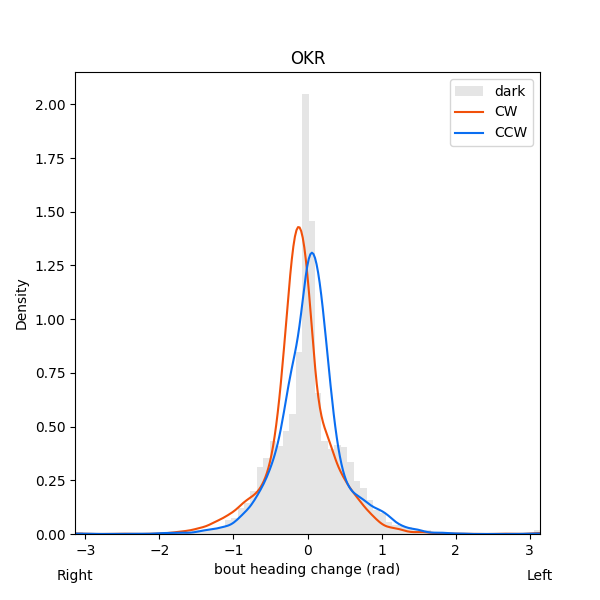
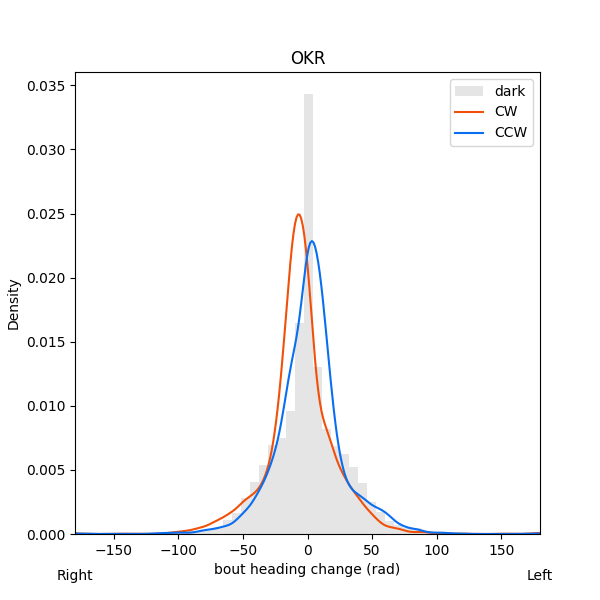
update

diff --git a/BehaviorScreen/__main__.py b/BehaviorScreen/__main__.py
@@ -196,7 +196,7 @@ if __name__ == '__main__':
     plt.figure(figsize=(6,6))
     plt.title('Photokinesis')
     plot_mean_and_sem(timeseries[(timeseries['stim']==Stim.DARK)].groupby('time')['distance'], COLORS[0], label='Dark')
-    plot_mean_and_sem(timeseries[(timeseries['stim']==Stim.BRIGHT) & (timeseries['stim_variable_value']=='[0.2,0.2,0.0,1]')].groupby('time')['distance'], COLORS[1], label='Bright')
+    plot_mean_and_sem(timeseries[(timeseries['stim']==Stim.BRIGHT) & (timeseries['stim_variable_value']=='[0.2, 0.2, 0.0, 1.0]')].groupby('time')['distance'], COLORS[1], label='Bright')
     plt.ylabel('<cumulative distance (mm)>')
     plt.xlabel('time [s]')
     plt.legend()
@@ -265,7 +265,7 @@ if __name__ == '__main__':
 
     plt.figure(figsize=(6,6))
     plt.title('Loomings')
-    plot_mean_and_sem(timeseries[(timeseries['stim']==Stim.BRIGHT) & (timeseries['stim_variable_value']=='[0.2,0.2,0.0,1]')].groupby('time')['speed'], col=COLORS[0], label='Bright')
+    plot_mean_and_sem(timeseries[(timeseries['stim']==Stim.BRIGHT) & (timeseries['stim_variable_value']=='[0.2, 0.2, 0.0, 1.0]')].groupby('time')['speed'], col=COLORS[0], label='Bright')
     plot_mean_and_sem(timeseries[(timeseries['stim']==Stim.LOOMING)].groupby('time')['speed'], col=COLORS[1], label='Looming')
     plt.ylabel('<speed [mm/s]>')
     plt.xlabel('time [s]')
@@ -277,9 +277,9 @@ if __name__ == '__main__':
     fig = plt.figure(figsize=(6,6))
     plt.title('prey capture')
     num_bouts = bouts[bouts['stim']==Stim.PREY_CAPTURE].shape[0]//2
-    bouts[(bouts['stim']==Stim.DARK)]['heading_change'].sample(num_bouts).plot.hist(color='k', bins=180, alpha=0.1, density=True, label='dark')
-    bouts[(bouts['stim']==Stim.PREY_CAPTURE) & (bouts['stim_variable_value']==20)]['heading_change'].plot.kde(color=COLORS[0], label='| o')
-    bouts[(bouts['stim']==Stim.PREY_CAPTURE) & (bouts['stim_variable_value']==-20)]['heading_change'].plot.kde(color=COLORS[1], label='o |')
+    bouts[(bouts['stim']==Stim.DARK)]['heading_change'].apply(np.rad2deg).sample(num_bouts).plot.hist(color='k', bins=180, alpha=0.1, density=True, label='dark')
+    bouts[(bouts['stim']==Stim.PREY_CAPTURE) & (bouts['stim_variable_value']==20)]['heading_change'].apply(np.rad2deg).plot.kde(color=COLORS[0], label='| o')
+    bouts[(bouts['stim']==Stim.PREY_CAPTURE) & (bouts['stim_variable_value']==-20)]['heading_change'].apply(np.rad2deg).plot.kde(color=COLORS[1], label='o |')
     plt.xlim(-180, 180)
     plt.legend()
     plt.text(
@@ -313,9 +313,9 @@ if __name__ == '__main__':
     fig = plt.figure(figsize=(6,6))
     plt.title('phototaxis')
     num_bouts = bouts[bouts['stim']==Stim.PHOTOTAXIS].shape[0]//2
-    bouts[(bouts['stim']==Stim.DARK)]['heading_change'].sample(num_bouts).plot.hist(color='k', bins=180, alpha=0.1, density=True,label='dark')
-    bouts[(bouts['stim']==Stim.PHOTOTAXIS) & (bouts['stim_variable_value']==1)]['heading_change'].plot.kde(color=COLORS[0], label='Bright | Dark')
-    bouts[(bouts['stim']==Stim.PHOTOTAXIS) & (bouts['stim_variable_value']==-1)]['heading_change'].plot.kde(color=COLORS[1], label='Dark | Bright')
+    bouts[(bouts['stim']==Stim.DARK)]['heading_change'].sample(num_bouts).apply(np.rad2deg).plot.hist(color='k', bins=180, alpha=0.1, density=True,label='dark')
+    bouts[(bouts['stim']==Stim.PHOTOTAXIS) & (bouts['stim_variable_value']==1)]['heading_change'].apply(np.rad2deg).plot.kde(color=COLORS[0], label='Bright | Dark')
+    bouts[(bouts['stim']==Stim.PHOTOTAXIS) & (bouts['stim_variable_value']==-1)]['heading_change'].apply(np.rad2deg).plot.kde(color=COLORS[1], label='Dark | Bright')
     plt.xlim(-180, 180)
     plt.legend()
     plt.text(
@@ -343,9 +343,9 @@ if __name__ == '__main__':
     plt.title(f'phototaxis, first {n} bouts')
     first_bouts = bouts[bouts['stim']==Stim.PHOTOTAXIS].groupby(['file', 'identity', 'stim_variable_value', 'trial_num'], group_keys=False).head(n)
     num_bouts = first_bouts.shape[0]//2
-    bouts[(bouts['stim']==Stim.DARK)]['heading_change'].sample(num_bouts).plot.hist(color='k', bins=80, alpha=0.1, density=True, label='dark')
-    first_bouts[first_bouts['stim_variable_value']==1]['heading_change'].plot.kde(color=COLORS[0], label='Bright | Dark')
-    first_bouts[first_bouts['stim_variable_value']==-1]['heading_change'].plot.kde(color=COLORS[1], label='Dark | Bright')
+    bouts[(bouts['stim']==Stim.DARK)]['heading_change'].sample(num_bouts).apply(np.rad2deg).plot.hist(color='k', bins=80, alpha=0.1, density=True, label='dark')
+    first_bouts[first_bouts['stim_variable_value']==1]['heading_change'].apply(np.rad2deg).plot.kde(color=COLORS[0], label='Bright | Dark')
+    first_bouts[first_bouts['stim_variable_value']==-1]['heading_change'].apply(np.rad2deg).plot.kde(color=COLORS[1], label='Dark | Bright')
     plt.xlim(-180, 180)
     plt.legend()
     plt.text(
@@ -376,9 +376,9 @@ if __name__ == '__main__':
     fig = plt.figure(figsize=(6,6))
     plt.title('OMR directional')
     num_bouts = bouts[bouts['stim']==Stim.OMR].shape[0]//2
-    bouts[(bouts['stim']==Stim.DARK)]['heading_change'].sample(num_bouts).plot.hist(color='k', bins=180, alpha=0.1, density=True, label='dark')
-    bouts[(bouts['stim']==Stim.OMR) & (bouts['stim_variable_value']==90)]['heading_change'].plot.kde(color=COLORS[0], label='-->')
-    bouts[(bouts['stim']==Stim.OMR) & (bouts['stim_variable_value']==-90)]['heading_change'].plot.kde(color=COLORS[1], label='<--')
+    bouts[(bouts['stim']==Stim.DARK)]['heading_change'].sample(num_bouts).apply(np.rad2deg).plot.hist(color='k', bins=180, alpha=0.1, density=True, label='dark')
+    bouts[(bouts['stim']==Stim.OMR) & (bouts['stim_variable_value']==90)]['heading_change'].apply(np.rad2deg).plot.kde(color=COLORS[0], label='-->')
+    bouts[(bouts['stim']==Stim.OMR) & (bouts['stim_variable_value']==-90)]['heading_change'].apply(np.rad2deg).plot.kde(color=COLORS[1], label='<--')
     plt.xlim(-180, 180)
     plt.legend()
     plt.text(
@@ -412,9 +412,9 @@ if __name__ == '__main__':
     fig = plt.figure(figsize=(6,6))
     plt.title('OKR')
     num_bouts = bouts[bouts['stim']==Stim.OKR].shape[0]//2
-    bouts[(bouts['stim']==Stim.DARK)]['heading_change'].sample(num_bouts).plot.hist(color='k', bins=180, alpha=0.1, density=True, label='dark')
-    bouts[(bouts['stim']==Stim.OKR) & (bouts['stim_variable_value']==36)]['heading_change'].plot.kde(color=COLORS[0], label='CW')
-    bouts[(bouts['stim']==Stim.OKR) & (bouts['stim_variable_value']==-36)]['heading_change'].plot.kde(color=COLORS[1], label='CCW')
+    bouts[(bouts['stim']==Stim.DARK)]['heading_change'].sample(num_bouts).apply(np.rad2deg).plot.hist(color='k', bins=180, alpha=0.1, density=True, label='dark')
+    bouts[(bouts['stim']==Stim.OKR) & (bouts['stim_variable_value']==36)]['heading_change'].apply(np.rad2deg).plot.kde(color=COLORS[0], label='CW')
+    bouts[(bouts['stim']==Stim.OKR) & (bouts['stim_variable_value']==-36)]['heading_change'].apply(np.rad2deg).plot.kde(color=COLORS[1], label='CCW')
     plt.xlim(-180, 180)
     plt.legend()
     plt.text(

diff --git a/BehaviorScreen/megabouts.py b/BehaviorScreen/megabouts.py
@@ -132,7 +132,7 @@ def get_bout_metrics(
                         peak_axial_speed = axial_speed[np.argmax(np.abs(axial_speed))]
 
                         # peak yaw speed
-                        yaw_speed = np.rad2deg(meg_data.traj.yaw_speed[on:off])
+                        yaw_speed = meg_data.traj.yaw_speed[on:off]
                         peak_yaw_speed = yaw_speed[np.argmax(np.abs(yaw_speed))]
 
                         rows.append({
